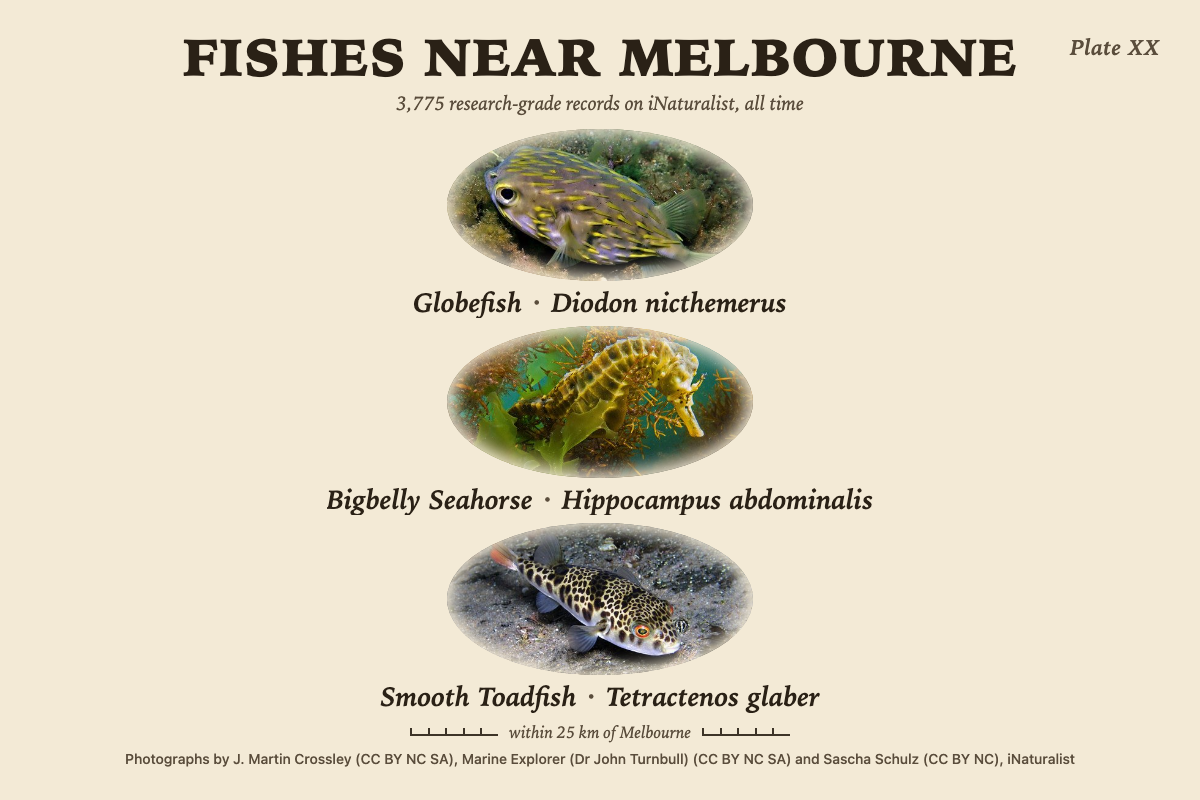
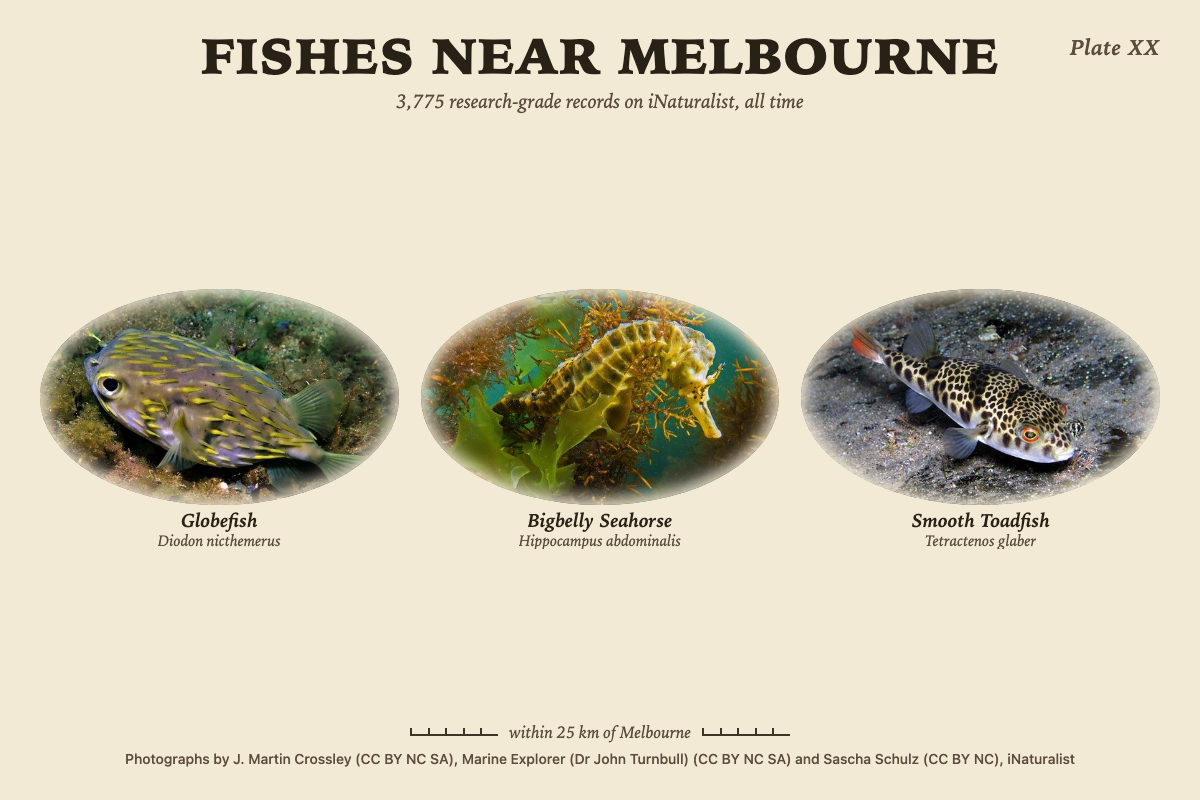
fix: fishes side by side on wide cells, one-line title
A landscape cell whose stack would leave each fish under two fifths of the height puts the fishes in a row (two or three across, four and five as two rows) with the captions aligned beneath. The title is sized from the cell width so it keeps to one line at 600 px, with the plate number moved into the subtitle line on narrow cells. Screenshots retaken.

Changed region(s): [[0.0308, 0.0312, 0.9867, 0.9062]]

diff --git a/client.js b/client.js
@@ -66,10 +66,15 @@ function creditsLine(d, shown) {
   return bits.join('; ');
 }
 
-function head(d, size) {
-  const sub = size === 'sm' || !d.subtitle ? '' : `<div class="fp-sub">${esc(d.subtitle)}</div>`;
-  return `<header class="fp-head">
-    <div class="fp-plate">${esc(d.plate || '')}</div>
+/* The head: the title on one line, the plate number top right where the cell is wide
+   enough and in the subtitle line where it is not (a 600 px portrait cell, an md cell). */
+function head(d, size, w) {
+  const corner = size !== 'sm' && w >= 700;
+  const bits = [d.subtitle, corner ? '' : d.plate].filter(Boolean);
+  const sub = size === 'sm' || !bits.length ? '' : `<div class="fp-sub">${bits.map(esc).join(' · ')}</div>`;
+  const plate = corner || size === 'sm' ? `<div class="fp-plate">${esc(d.plate || '')}</div>` : '';
+  return `<header class="fp-head${corner || size === 'sm' ? ' has-corner' : ''}">
+    ${plate}
     <h1 class="fp-title">${esc(d.title || 'Fishes')}</h1>${sub}
   </header>`;
 }
@@ -85,7 +90,38 @@ function foot(d, shown, size) {
   </footer>`;
 }
 
+/* A landscape cell that would leave each stacked fish under two fifths of the height
+   puts the fishes side by side instead: two or three across, four as two rows of two,
+   five as a row of three over a row of two. Portrait cells and sm keep the stack. */
+function sideBySide(d, size, w, h) {
+  if (size === 'sm' || w <= h) return 0;
+  const n = Math.min(d.species.length, 5);
+  if (n < 2) return 0;
+  const avail = h * (1 - HEAD_SHARE - FOOT_SHARE);
+  return avail / n < 0.4 * h ? n : 0;
+}
+
 function stacked(d, size, w, h) {
+  const across = sideBySide(d, size, w, h);
+  if (across) {
+    const shown = d.species.slice(0, across);
+    const cols = across <= 3 ? across : across === 4 ? 2 : 3;
+    // a 2-column-per-fish grid lets the second row of five sit centred under the three
+    const span = across === 5 ? 2 : 1;
+    const tracks = across === 5 ? 6 : cols;
+    const cells = shown
+      .map((s, i) => {
+        const col = across === 5 && i >= 3 ? ` style="grid-column:${(i - 3) * 2 + 2} / span 2"` : span > 1 ? ' style="grid-column:span 2"' : '';
+        const name = `<span class="fp-common">${esc(s.name)}</span>${s.sci && s.sci !== s.name ? `<span class="fp-sci">${esc(s.sci)}</span>` : ''}`;
+        return `<figure class="fp-fish"${col}>${picture(s, 'fp-pic')}<figcaption class="fp-name fp-name-2">${name}</figcaption></figure>`;
+      })
+      .join('');
+    const rows = across > 3 ? 2 : 1;
+    // the room each picture has: the body split by rows, less a two-line caption
+    const nameFont = Math.max(12, Math.min(26, 0.026 * Math.min(w, h)));
+    const pich = Math.max(40, Math.floor((h * (1 - HEAD_SHARE - FOOT_SHARE)) / rows - 2.4 * nameFont - (rows > 1 ? 12 : 0)));
+    return `${head(d, size, w)}<main class="fp-row c${cols}" style="--tracks:${tracks};--rows:${rows};--pich:${pich}px">${cells}</main>${foot(d, shown, size)}`;
+  }
   const n = rowsFor(d, size, w, h);
   const shown = d.species.slice(0, n);
   const rows = shown
@@ -93,7 +129,7 @@ function stacked(d, size, w, h) {
       (s) => `<figure class="fp-fish">${picture(s, 'fp-pic')}<figcaption class="fp-name">${nameLine(s)}</figcaption></figure>`,
     )
     .join('');
-  return `${head(d, size)}<main class="fp-stack n${n}" style="--n:${n}">${rows}</main>${foot(d, shown, size)}`;
+  return `${head(d, size, w)}<main class="fp-stack n${n}" style="--n:${n}">${rows}</main>${foot(d, shown, size)}`;
 }
 
 function hero(d, size) {

diff --git a/client.css b/client.css
@@ -38,11 +38,12 @@
   font-size: clamp(11px, 3cqmin, 24px); letter-spacing: 0.02em; color: var(--ink-soft);
 }
 .fp-title {
-  margin: 0; padding: 0 clamp(30px, 9cqmin, 80px);
+  margin: 0; padding: 0;
   font-family: var(--serif); font-weight: 800; text-transform: uppercase;
-  font-size: clamp(14px, min(7.2cqmin, 4.6cqw), 54px); line-height: 1.02; letter-spacing: 0.02em;
-  overflow: hidden; display: -webkit-box; -webkit-line-clamp: 2; -webkit-box-orient: vertical; overflow-wrap: anywhere;
+  font-size: clamp(14px, 4.4cqw, 54px); line-height: 1.02; letter-spacing: 0.02em;
+  white-space: nowrap; overflow: hidden; text-overflow: ellipsis;
 }
+.fp-head.has-corner .fp-title { padding: 0 clamp(30px, 9cqmin, 80px); }
 .fp-sub {
   margin-top: 0.25em;
   font-family: var(--serif); font-style: italic; font-weight: 500;
@@ -64,7 +65,7 @@
   row-gap: clamp(2px, 0.8cqmin, 8px);
 }
 .fp-pic { height: 100%; min-height: 0; max-width: 100%; display: flex; align-items: center; justify-content: center; }
-.fp-pic img { height: 100%; width: auto; max-width: 100%; object-fit: contain; }
+.fp-pic img { height: 100%; width: 100%; object-fit: contain; }
 .fp-pic.is-painting img { mix-blend-mode: multiply; }
 .fp-pic.is-photo {
   position: relative; aspect-ratio: 2 / 1; height: 100%; max-width: 84cqw;
@@ -83,6 +84,26 @@
   white-space: nowrap; overflow: hidden; text-overflow: ellipsis; max-width: 100%;
 }
 .fp-dot { color: var(--ink-soft); padding: 0 0.1em; }
+
+/* ---- side by side: a wide cell's fishes in a row (or two) --------------- */
+
+.fp-row {
+  flex: 1 1 auto; min-height: 0;
+  display: grid; grid-template-columns: repeat(var(--tracks, 3), minmax(0, 1fr));
+  grid-template-rows: repeat(var(--rows, 1), auto); align-content: center;
+  column-gap: clamp(8px, 3cqmin, 36px); row-gap: clamp(4px, 1.5cqmin, 16px);
+  padding: clamp(4px, 1.5cqmin, 16px) 0 clamp(2px, 1cqmin, 10px);
+}
+/* each picture stands on its caption, the captions of a row on one line; the picture
+   fits its column and the room the row leaves it (--pich, worked out per cell) */
+.fp-row .fp-fish { width: 100%; display: grid; grid-template-rows: minmax(0, 1fr) auto; align-items: end; justify-items: center; min-height: 0; }
+.fp-row .fp-pic { width: 100%; height: auto; display: flex; align-items: flex-end; justify-content: center; }
+.fp-row .fp-pic img { width: auto; height: auto; max-width: 100%; max-height: var(--pich, 100cqh); }
+.fp-row .fp-pic.is-photo { width: min(100%, calc(var(--pich, 100cqh) * 1.667)); height: auto; aspect-ratio: 5 / 3; }
+.fp-row .fp-pic.is-photo img { width: 100%; height: 100%; max-height: none; }
+.fp-name-2 { display: grid; justify-items: center; line-height: 1.12; font-size: clamp(12px, 2.6cqmin, 26px); max-width: 100%; }
+.fp-name-2 .fp-common, .fp-name-2 .fp-sci { max-width: 100%; white-space: nowrap; overflow: hidden; text-overflow: ellipsis; }
+.fp-name-2 .fp-sci { font-weight: 500; font-size: 0.82em; color: var(--ink-soft); }
 
 /* ---- foot: a scale bar and the credits --------------------------------- */
 
@@ -188,7 +209,7 @@
 
 /* ---- sm: one fish and its name ------------------------------------------ */
 
-.size-sm .fp-title { font-size: clamp(13px, 6.5cqmin, 20px); padding: 0 clamp(28px, 11cqmin, 60px); }
+.size-sm .fp-title { font-size: clamp(13px, 5cqw, 20px); padding: 0 clamp(28px, 11cqmin, 60px); }
 .size-sm .fp-plate { font-size: 11px; }
 .size-sm .fp-stack { padding-top: 4px; }
 .size-sm .fp-name { font-size: clamp(12px, 5cqmin, 18px); }

diff --git a/README.md b/README.md
@@ -61,8 +61,13 @@ drawing are black ink only, the ones for a black and white panel.
 **Stacked plate** is the fishes one above another, each spanning most of the
 width, with "Common name · Scientific name" in an italic serif beneath, the
 title at the top, the plate number top right, and a scale bar at the foot that
-carries the area and record count. Small cells show fewer fishes: one at sm,
-and at md whatever fits at a readable size.
+carries the area and record count. On a landscape cell where the stack would
+leave each fish under two fifths of the height, the fishes go side by side
+instead (two or three across, four as two rows of two, five as three over two)
+with each caption under its fish, so the fish stays the biggest thing on the
+page in every cell shape. Portrait cells keep the stack; sm shows one fish and
+its name. Where the cell is under 700 px wide the plate number moves into the
+subtitle line so the title keeps to one line.
 
 **Hero** is the most recorded fish large across the page inside a double ruled
 frame with corner flourishes, its name in large serif capitals beneath, the
@@ -110,14 +115,14 @@ Settings (one set for every cell): the fal.ai key, a painting budget per day
 
 | | |
 | --- | --- |
-| ![Stacked plate, Bloch paintings, 1200x800](screenshots/lg.png) | ![Hero, Bloch paintings on aged paper, 1200x800](screenshots/extra-1.png) |
-| Stacked plate, Bloch paintings, 1200x800 | Hero, Bloch paintings on aged paper, 1200x800 |
+| ![Stacked plate, three Bloch paintings across, 1200x800](screenshots/lg.png) | ![Hero, Bloch paintings on aged paper, 1200x800](screenshots/extra-1.png) |
+| Stacked plate, three Bloch paintings across, 1200x800 | Hero, Bloch paintings on aged paper, 1200x800 |
 | ![Stacked plate, photographs, 1200x800](screenshots/extra-2.png) | ![Hero, photographs, 1200x800](screenshots/extra-3.png) |
-| Stacked plate, photographs, 1200x800 | Hero, photographs, 1200x800 |
+| Stacked plate, three photographs across, 1200x800 | Hero, photographs, 1200x800 |
 | ![Portrait half panel, Bloch paintings on white paper, 600x800](screenshots/extra-4.png) | ![13.3" portrait, five species in photographs, 1200x1600](screenshots/extra-5.png) |
 | Portrait half panel, Bloch paintings on white paper, 600x800 | 13.3" portrait, five species in photographs, 1200x1600 |
 | ![Gyotaku ink prints on a black and white panel, md](screenshots/extra-6.png) | ![Photographs at md, 640x400](screenshots/extra-7.png) |
-| Gyotaku ink prints on a black and white panel, 640x400 | Photographs at md, 640x400 |
+| Gyotaku ink prints on a black and white panel, 640x400 | Photographs at md, 640x400, three across |
 | ![One gyotaku fish at sm, black and white panel, 380x240](screenshots/extra-8.png) | ![Bloch paintings with the dark theme, 640x400](screenshots/extra-9.png) |
 | One gyotaku fish at sm on a black and white panel, 380x240 | Bloch paintings under the dark theme, 640x400 (the paper stays paper) |
 
